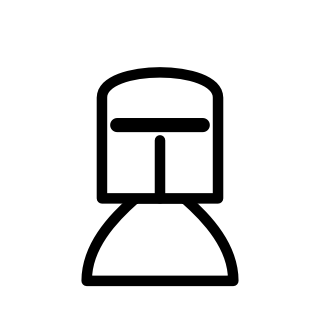
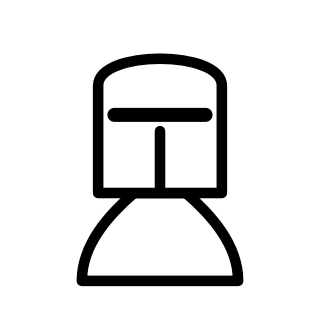
Grunt a little taller, Abatis and Vassal a little shorter (Mac)

Changed region(s): [[0.2188, 0.1562, 0.7812, 0.9062]]

diff --git a/art/source/piece_options/make_final_grunt_vassal.py b/art/source/piece_options/make_final_grunt_vassal.py
@@ -40,7 +40,7 @@ BARE_HEAD = "M 22.5,8 A 7,7 0 1 0 22.5,22 A 7,7 0 1 0 22.5,8 Z"
 
 
 # Drawn 35.5 high (y 4..39.5); shown at the Pawn's height (Mac: smaller), scaled about the bottom.
-GRUNT_SCALE = 30.5 / 35.5
+GRUNT_SCALE = 32.5 / 35.5   # a little taller than the Pawn (Mac)
 GRUNT_TRANSFORM = "translate(22.5,39.5) scale(%.4f) translate(-22.5,-39.5)" % GRUNT_SCALE
 
 
@@ -58,7 +58,7 @@ def grunt_wounded(team):
 LEGS = "M 9,39.5 L 9,34 C 9,31.5 11,30 13.5,30 L 34,30 C 36,30 37,31.5 37,34 L 37,39.5 Z"
 TORSO = "M 15,30 C 14,22 18,14 25,13 C 31,13 35,20 34,30 Z"
 HEAD_C = "M 18.5,5.5 A 5,5 0 1 0 18.5,15.5 A 5,5 0 1 0 18.5,5.5 Z"
-SCALE = 30.5 / 34.0
+SCALE = 29.0 / 34.0   # a little shorter than the Pawn (Mac)
 
 
 def vassal(team):

diff --git a/art/source/piece_options/make_final_abatis.py b/art/source/piece_options/make_final_abatis.py
@@ -24,8 +24,8 @@ def stake(x0, y0, x1, y1, w, sharp=0.22):
     return "M %s Z" % " L ".join("%.2f,%.2f" % p for p in pts)
 
 
-BACK = stake(9.5, 39.5, 31.5, 9, 5)
-FRONT = stake(35.5, 39.5, 13.5, 9, 5)
+BACK = stake(10, 39.5, 31, 10.5, 5)   # tips at y 10.5: a little shorter than the Pawn (Mac)
+FRONT = stake(35, 39.5, 14, 10.5, 5)
 
 
 def svg(team):
